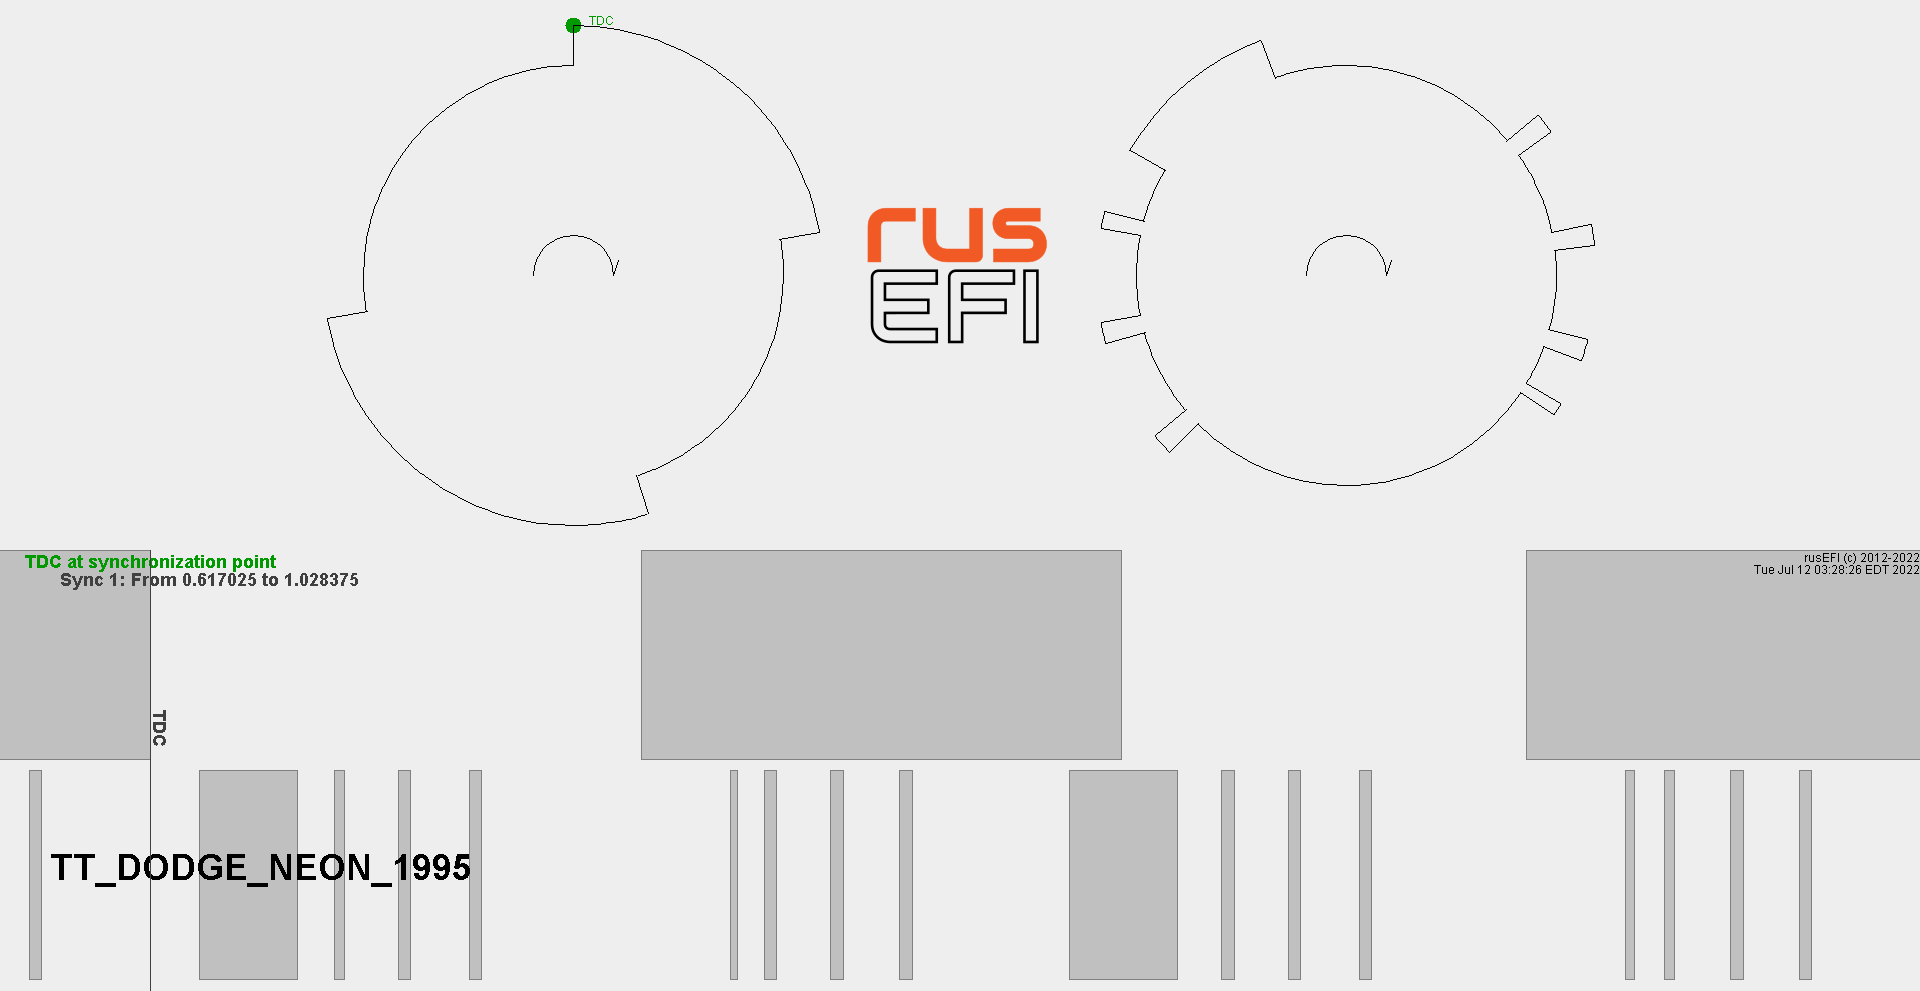
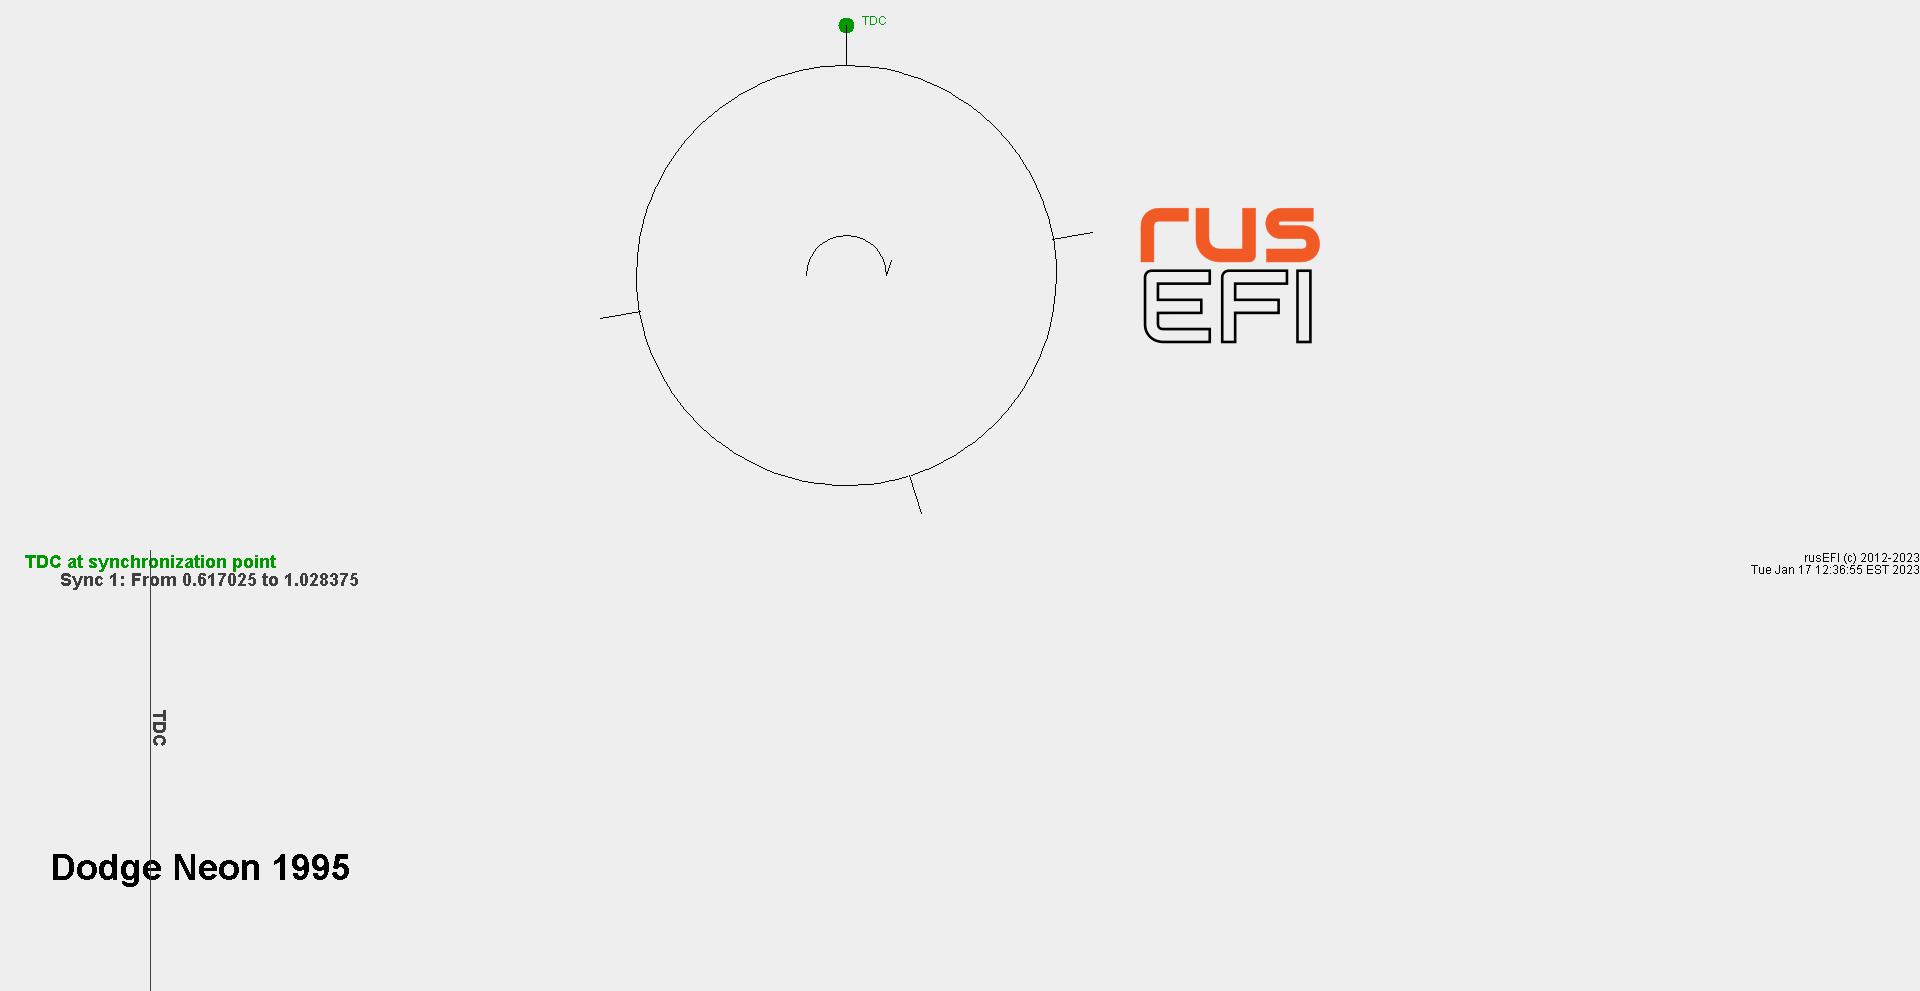
https://github.com/rusefi/rusefi/issues/4975

diff --git a/All-Supported-Triggers.md b/All-Supported-Triggers.md
@@ -2,7 +2,12 @@
 
 See also [Trigger](Trigger)
 
-To change your trigger settings, open TunerStudio, Engine->Trigger Configuration
+To change your trigger settings, open TunerStudio, Engine->Trigger Configuration.
+
+# Norman Note
+
+Cam always goes before crank. For shapes with two wheels, left wheel is top in tuner studio.
+Also order of channels on engine sniffer should match order of channels on the bottom part of corresponding image.
 
 [Universal](#universal)
 
@@ -176,11 +181,11 @@ Tuner studio allows up to 500 teeth with 500 missing - functional limits are not
 
 ### Dodge Neon 1995
 
-![Dodge Neon 1995](Images/triggers/trigger_2.png)
+![Dodge Neon 1995](Images/triggers/trigger_TT_DODGE_NEON_1995.png)
 
 ### Dodge Neon 1995 only crankshaft sensor
 
-![Dodge Neon 1995 crank only](Images/triggers/trigger_39.png)
+![Dodge Neon 1995 crank only](Images/triggers/trigger_TT_DODGE_NEON_1995_ONLY_CRANK.png)
 
 ### Dodge Hemi and SRT4
 
